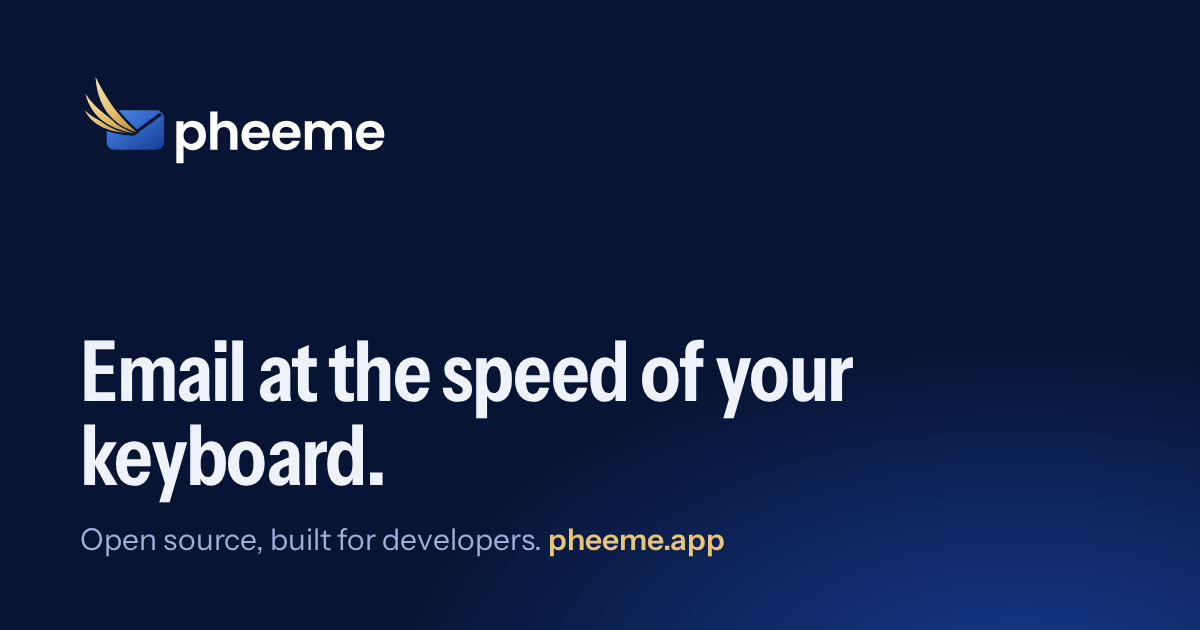
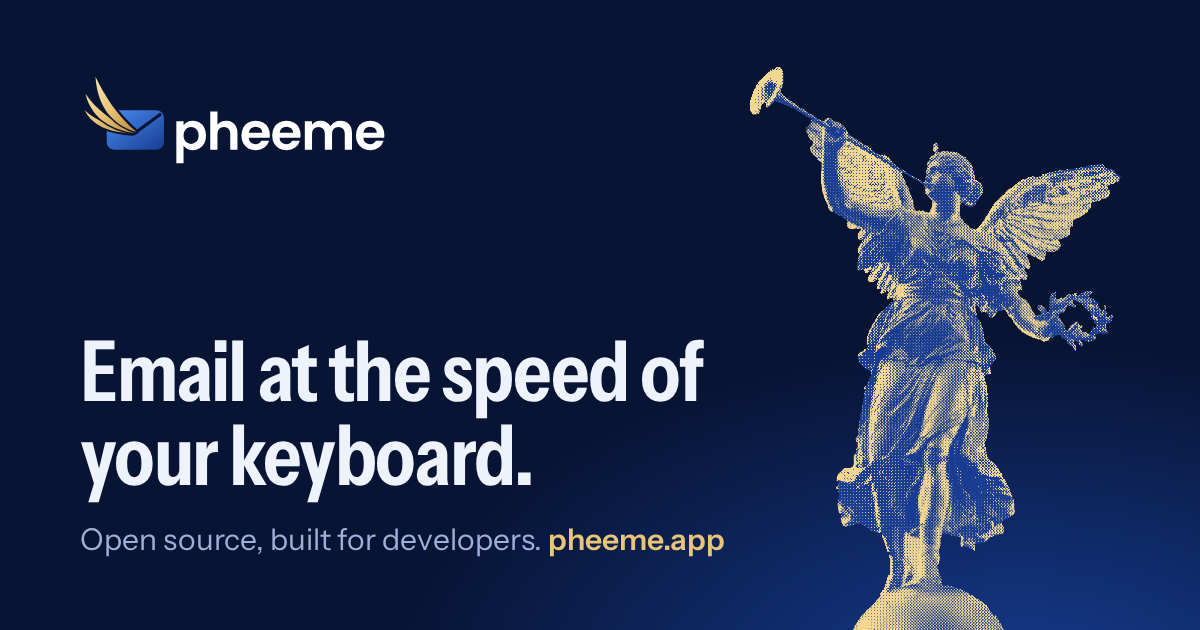
Feature the Pheme (Fama) statue as gold halftone art
- Hero: halftone statue standing on the inbox demo window
- New "Named for the goddess of news" section
- Social card includes the statue
- Credit and CC BY-SA 3.0 notice for the source photo; build script in scripts/build-fama.sh

Changed region(s): [[0.5858, 0.1206, 0.9558, 1.0], [0.0617, 0.6635, 0.4625, 0.8143]]

diff --git a/public/styles.css b/public/styles.css
@@ -99,17 +99,28 @@ kbd {
 /* ---------- hero ---------- */
 .hero {
   display: grid;
-  grid-template-columns: minmax(0, 1.55fr) minmax(0, 1fr);
-  gap: 3rem;
+  grid-template-columns: minmax(0, 1.35fr) minmax(0, 1fr);
+  gap: 2rem;
   align-items: end;
-  padding-block: clamp(3rem, 9vw, 7rem) 3.5rem;
+  padding-top: clamp(2rem, 6vw, 4.5rem);
 }
+.hero-copy { align-self: center; padding-bottom: 4rem; }
 .hero h1 {
-  font-size: var(--t-4);
+  font-size: clamp(3rem, 7.2vw, 6.75rem);
   font-stretch: 78%;
   font-weight: 650;
   line-height: .92;
   letter-spacing: -0.025em;
+}
+.hero .lede { margin-top: 1.75rem; }
+/* Pheme stands on the inbox window the way she stands on her dome in Dresden. */
+.hero-art {
+  position: relative;
+  z-index: 1;
+  justify-self: center;
+  width: auto;
+  height: clamp(440px, 50vw, 700px);
+  margin-bottom: -3px;
 }
 .lede { font-size: var(--t-1); line-height: 1.45; color: var(--paper); max-width: 34ch; }
 .actions { display: flex; flex-wrap: wrap; gap: .75rem; margin-top: 2rem; }
@@ -229,6 +240,19 @@ kbd {
 .term .p { color: var(--gold); }
 .cursor { display: inline-block; width: .6em; height: 1.1em; vertical-align: -.2em; background: var(--paper); animation: blink 1s steps(1) infinite; }
 
+/* ---------- the name ---------- */
+.name {
+  display: grid;
+  grid-template-columns: minmax(0, 1.2fr) minmax(0, 1fr);
+  gap: clamp(2rem, 5vw, 5rem);
+  align-items: center;
+  padding-bottom: clamp(5rem, 10vw, 8rem);
+}
+.name figure { margin: 0; }
+.name figcaption { margin-top: .75rem; font-size: .85rem; color: var(--muted); }
+.name h2 { font-size: var(--t-3); font-stretch: 80%; line-height: 1; letter-spacing: -0.02em; }
+.name p { margin-top: 1.1rem; color: #c9d3ee; max-width: 42ch; }
+
 /* ---------- roadmap ---------- */
 .roadmap { padding-bottom: clamp(5rem, 10vw, 8rem); }
 .roadmap > h2 { font-size: var(--t-3); font-stretch: 80%; line-height: 1; letter-spacing: -0.02em; }
@@ -278,12 +302,17 @@ kbd {
 .foot nav { margin-left: auto; display: flex; gap: 1.5rem; }
 .foot nav a { text-decoration: none; }
 .foot nav a:hover { color: var(--paper); }
+.foot .credit { flex-basis: 100%; font-size: .8rem; max-width: 80ch; }
+.foot .credit a { color: var(--muted); }
 
 @keyframes blink { 50% { opacity: 0; } }
 
 /* ---------- responsive ---------- */
 @media (max-width: 960px) {
-  .hero { grid-template-columns: minmax(0, 1fr); gap: 2rem; }
+  .hero { grid-template-columns: minmax(0, 1fr); gap: 1rem; }
+  .hero-copy { padding-bottom: 0; }
+  .hero-art { height: clamp(320px, 70vw, 480px); }
+  .name { grid-template-columns: minmax(0, 1fr); }
   .panes { grid-template-columns: minmax(0, 1fr) minmax(0, 1fr); }
   .folders { display: none; }
   .pillars { grid-template-columns: minmax(0, 1fr); }

diff --git a/public/index.html b/public/index.html
@@ -43,8 +43,8 @@
 
   <main id="main">
     <section class="hero wrap">
-      <h1>Email at the speed of your keyboard.</h1>
-      <div class="hero-side">
+      <div class="hero-copy">
+        <h1>Email at the speed of your keyboard.</h1>
         <p class="lede">pheeme is an open-source email client for developers. It opens fast, stays fast, and never makes you reach for the mouse.</p>
         <div class="actions">
           <a class="btn btn-gold" href="https://github.com/AlexGenovezos/pheeme">Star on GitHub</a>
@@ -52,6 +52,8 @@
         </div>
         <p class="fine">It's early. There's nothing to download yet. Star the repo to follow the build.</p>
       </div>
+      <img class="hero-art" src="/art/fama.webp" width="738" height="1315"
+           alt="Halftone print of a gilded statue of Pheme, winged, blowing a long trumpet and holding a laurel wreath">
     </section>
 
     <section class="demo-section wrap" aria-labelledby="demo-title">
@@ -116,6 +118,19 @@
       </div>
     </section>
 
+    <section class="name wrap" aria-labelledby="name-title">
+      <figure>
+        <img src="/art/fama-detail.webp" width="1100" height="762" loading="lazy"
+             alt="Close-up halftone of Pheme's head, trumpet, and outstretched wings">
+        <figcaption>Fama by Robert Henze, on the roof of the Dresden Academy of Fine Arts.</figcaption>
+      </figure>
+      <div>
+        <h2 id="name-title">Named for the goddess of news.</h2>
+        <p>In Greek myth, Pheme was the voice that carried news. She had wings and a trumpet, and word traveled as fast as she could fly. The Romans called her Fama, and she still stands on a rooftop in Dresden, gilded and mid-announcement.</p>
+        <p>We borrowed her name, added an e, and pointed her at your inbox.</p>
+      </div>
+    </section>
+
     <section class="roadmap wrap" id="roadmap" aria-labelledby="roadmap-title">
       <h2 id="roadmap-title">Built in public</h2>
       <p class="section-lede">Here's the plan, in order. Watch the repo to see each step land.</p>
@@ -142,6 +157,7 @@
       <a href="https://github.com/AlexGenovezos/pheeme">GitHub</a>
       <a href="/logos">Logos</a>
     </nav>
+    <p class="credit">Statue art is adapted from <a href="https://commons.wikimedia.org/wiki/File:Dresden_Fama_(2005).jpg">a photo by Brunswyk</a> (<a href="https://creativecommons.org/licenses/by-sa/3.0/">CC BY-SA 3.0</a>). We cut it out, halftoned and recolored it, and share the result under the same license.</p>
   </footer>
 </body>
 </html>

diff --git a/brand-src/og.html b/brand-src/og.html
@@ -5,12 +5,14 @@
 html,body{margin:0;width:1200px;height:630px;overflow:hidden}
 body{background:radial-gradient(900px 500px at 85% 110%,#173C92 0%,transparent 70%),#071434;color:#EEF2FB;font-family:"Instrument Sans";display:flex;flex-direction:column;justify-content:space-between;padding:72px 80px;box-sizing:border-box}
 img{height:96px;align-self:flex-start}
-h1{font-size:84px;line-height:1;font-weight:650;font-stretch:80%;letter-spacing:-.02em;margin:0;max-width:900px}
+.fama{position:absolute;right:40px;top:28px;height:700px}
+h1{position:relative;font-size:84px;line-height:1;font-weight:650;font-stretch:80%;letter-spacing:-.02em;margin:0;max-width:760px}
 p{margin:0;font-size:30px;color:#9FB0D8}
 p b{color:#E8C579;font-weight:600}
 </style></head>
 <body>
 <img src="../public/brand/pheeme-logo-horizontal-color-dark.svg" alt="">
+<img class="fama" src="fama-halftone.png" alt="">
 <div>
 <h1>Email at the speed of your keyboard.</h1>
 <p style="margin-top:24px">Open source, built for developers. <b>pheeme.app</b></p>

diff --git a/README.md b/README.md
@@ -27,7 +27,8 @@ wrangler dev          # or: python3 -m http.server -d public 8787
 | `public/index.html`, `styles.css`, `demo.js` | Home page and the keyboard inbox demo |
 | `public/logos.html` | Logo download page (pheeme.app/logos) |
 | `public/brand/` | Generated logo set: SVG + PNG, plus `pheeme-brand.zip` |
-| `brand-src/` | Logo sources: outlined wordmark and the social card template |
+| `public/art/` | Halftone Pheme statue art (built by `scripts/build-fama.sh`) |
+| `brand-src/` | Logo sources: outlined wordmark, social card template, statue source photo |
 | `scripts/build-brand.mjs` | Regenerates `public/brand`, favicons, app icons and `og.png` |
 
 ## Logos
@@ -39,3 +40,7 @@ node scripts/build-brand.mjs
 ```
 
 It needs `magick` (ImageMagick), `zip`, and a Playwright `chrome-headless-shell` (or set `CHROME=/path/to/chrome`). The wordmark is Poppins SemiBold outlined to a path by `scripts/wordmark.py`, so it doesn't depend on the font. Site type is Instrument Sans and Martian Mono (both SIL OFL), self-hosted in `public/fonts`.
+
+## Statue art and license
+
+The hero statue is Fama (the Roman name for Pheme) by Robert Henze, on the Dresden Academy of Fine Arts. The source photo is [Dresden Fama (2005).jpg](https://commons.wikimedia.org/wiki/File:Dresden_Fama_(2005).jpg) by Brunswyk, licensed [CC BY-SA 3.0](https://creativecommons.org/licenses/by-sa/3.0/). `scripts/build-fama.sh` cuts it out, halftones and recolors it. The edited images in `public/art/` and the statue in `public/og.png` are shared under CC BY-SA 3.0 as well, and the site footer carries the credit. Keep the statue out of the logo, since that would put the logo under the same license.
